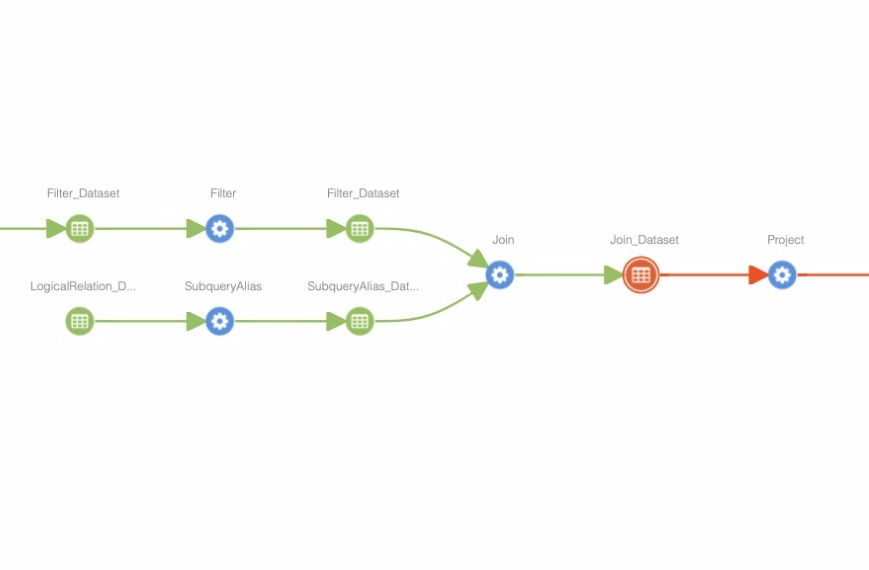
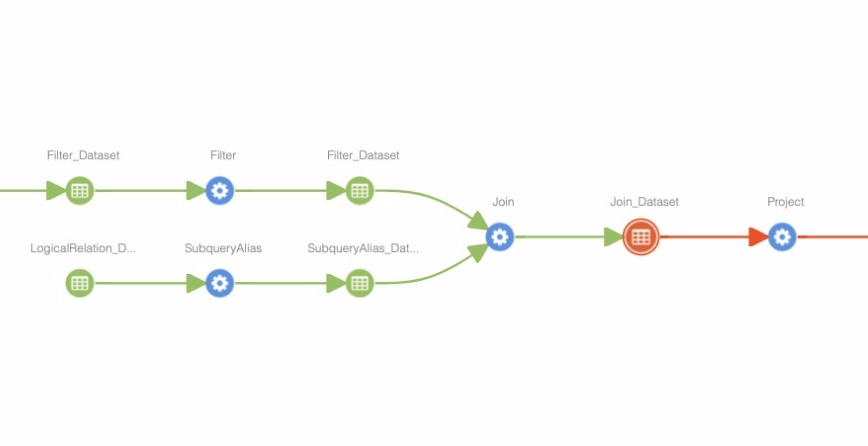
spline atlas

Changed region(s): [[0.0, 0.3206, 1.0, 0.6121], [0.0311, 0.4955, 0.4977, 0.6704]]

diff --git a/_posts/2019-01-24-Atlas-Support-Is-Back.md b/_posts/2019-01-24-Atlas-Support-Is-Back.md
@@ -4,7 +4,7 @@ title: "Atlas Support Is Back!"
 date: 2019-01-24
 author: "Vaclav Kosar @ Absa"
 ---
-<img src="{{ site.url }}{{ site.baseurl }}/assets/spline-atlas-ingested-lineage-2.png" width="560" height="315" />
+<img src="{{ site.url }}{{ site.baseurl }}/assets/spline-atlas-ingested-lineage.png" width="560" height="315" />
 
 Apache Atlas is meta data management platform for big data, which is often also used for data lineage. Spline support of Atlas was temporarily removed due to large refactoring on version 0.3. But now Atlas support is back thanks to [Marek Novotny](https://github.com/mn-mikke) and will be released soon. Supported Atlas version now is 1.0.
 
